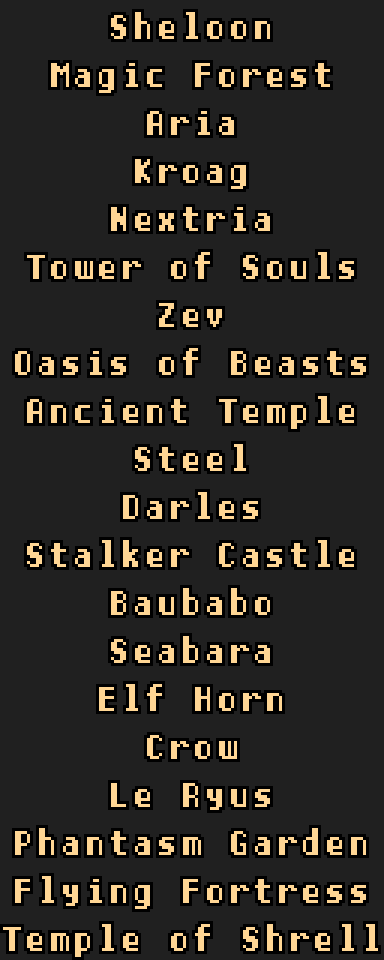
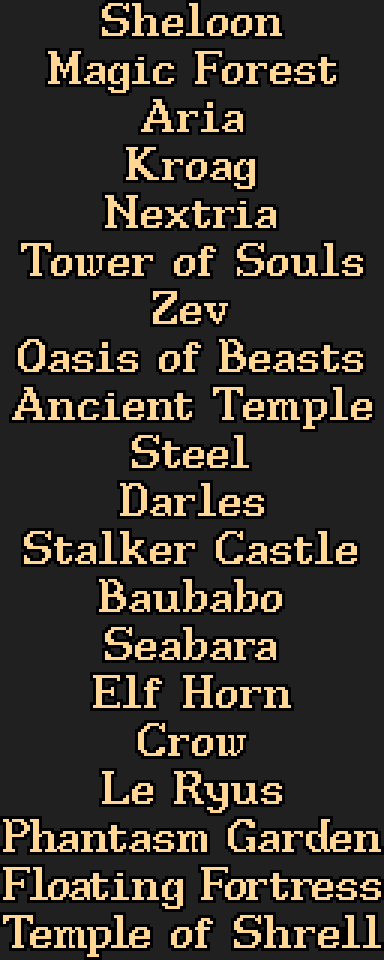
Hand-drawn English nameplates
Replaces the machine-drawn Latin pass with the twenty hand-drawn plates. The
delivered PNGs carried an editor-optimised palette - three colours renumbered
to 0/1/2, and not the same way in every file: 17-19 had the field and outline
swapped against the other seventeen. The build reads pixel values as palette
indices, so these are re-indexed onto 2/8/9 by matching RGB. Remapping by index
would have inverted the last three plates into black on black, which nothing
downstream could have caught.

18 is Floating Fortress again. The seventeen-character limit belonged to
plates.py draw, which sets type on a fixed half-width grid; the drawn art is
not on that grid and the name fits.

Space is now the thing to watch. The two blocks come to 6,326 bytes of the
6,364 available - outlines and proportional spacing break up the runs the LZSS
depends on, so this set packs larger than either the Japanese art (6,314) or
the drawn Latin one (3,479). Verified by decompressing both blocks back out of
the built ROM and comparing against all twenty sources, pixel for pixel.

README and docs/assets.md updated to match; plates.py referenced a
build/plates_patch.py that has not existed since the build was consolidated.

Changed region(s): [[0.0, 0.0, 1.0, 1.0]]

diff --git a/tools/plates.py b/tools/plates.py
@@ -37,7 +37,7 @@ where the table-pointed blocks begin.
     python3 tools/plates.py draw out/       draw English plates from the names
                                             in assets/plates/, to edit by hand
 
-`build/plates_patch.py` compiles whatever is in `assets/plates/` back into the
+`build/build.py` compiles whatever is in `assets/plates/` back into the
 ROM on every build, so a plate is changed by editing its PNG and rebuilding.
 Keep the size at 128x16 and use only the three colours the art uses:
 

diff --git a/docs/assets.md b/docs/assets.md
@@ -47,24 +47,40 @@ character *n* × 8.
     python3 tools/plates.py draw out/      a Latin first pass, from the filenames
 
 `build/build.py` compiles `assets/plates/*.png` back into the ROM on every build,
-so a plate is changed by editing its PNG and rebuilding. The files there are
-still the Japanese art, which makes the step a verified no-op: the round trip
-reproduces every character of both blocks exactly.
+so a plate is changed by editing its PNG and rebuilding. All twenty are English
+now, hand drawn. The round trip still verifies: decompressing both blocks out of
+the built ROM reproduces every source PNG pixel for pixel.
 
 Keep a plate 128×16 and paletted, and use only the three indices the art uses —
 `2` body, `8` outline, `9` field. Anything else is rejected by name rather than
 written as a wrong colour.
 
-**Space.** Blocks 0 and 1 are written end to end from `$0B3D68` and must not
-reach `$0B5644`, where the first table-pointed block starts — 6,364 bytes. The
-Japanese art repacks to 6,314. Latin letters compress far better: the drawn
-English set comes to 3,479, leaving about 2,900 spare. Block 1's address is
-patched to wherever block 0 ends, so the two do not have to keep their original
-sizes.
+**Watch the palette on anything an image editor has touched.** The build reads
+pixel values as palette *indices* and never looks at the RGB, so a file that
+looks correct on screen can still be wrong. Editors that optimise the palette
+renumber the three colours to `0`, `1`, `2` — and not consistently between
+files: the delivered English set had `0` as the field in seventeen plates and as
+the outline in the other three. Remapping such a file by index rather than by
+colour inverts it into black letters on a black field, which the build cannot
+catch because the result is a legal plate. Re-index by matching RGB.
 
-**Width.** Sixteen half-width letters fit across a plate, two to a 16×16 cell.
-Nineteen of the twenty names fit. `Floating Fortress` is seventeen and does not;
-`Flying Fortress` (15) or `Sky Fortress` (12) would.
+**Space.** Blocks 0 and 1 are written end to end from `$0B3D68` and must not
+reach `$0B5644`, where the first table-pointed block starts — 6,364 bytes. Block
+1's address is patched to wherever block 0 ends, so the two do not have to keep
+their original sizes.
+
+The margin is thin. The Japanese art repacked to 6,314; the machine-drawn Latin
+pass, being flat glyphs on a flat field, came to 3,479; the hand-drawn English
+plates in the tree now come to **6,326, leaving 38 bytes**. Outlines and
+proportional spacing cost most of that — they break up the long runs the LZSS
+lives on. A redraw that adds detail can overrun, and the build says so and stops.
+If it does, both block addresses are immediates (`LDX` at `$91:8349` and
+`$91:8354`), so moving them is three bytes each.
+
+**Width.** The old limit of sixteen half-width letters, two to a 16×16 cell,
+applies to `plates.py draw`, which sets type on that grid. Hand-drawn art is not
+on the grid: `Floating Fortress` is seventeen characters and fits comfortably,
+which is why the plate is no longer called `Flying Fortress`.
 
 ## Monster names
 

diff --git a/README.md b/README.md
@@ -17,7 +17,7 @@ Super Famicom, ASCII / System Sacom, 1993.
 | Block B — story script | **Translated, all 412 strings** |
 | Block D — Rinkle's area hints | Translated, 51 strings |
 | Block E — status screen layout | Tokens only, nothing to translate |
-| World map nameplates | PNGs compile back into the ROM; art still Japanese |
+| World map nameplates | **English** — all twenty redrawn, compiled from PNGs |
 | Monster names | **English** — Latin font, 12-character names, renderer patched |
 
 Blocks B and D are repacked against their pointer tables at build time, so their
@@ -60,9 +60,9 @@ double-applied patch fails loudly instead of producing something subtly broken.
 Not script, and not in any block: the world map nameplates and the battle monster
 names. The names are English now and are authored on the `Monster names` sheet.
 The nameplates are art — `assets/plates/NN_Name.png`, one file per plate, compiled
-into the ROM on every build, so changing one means editing the PNG. They are
-still the Japanese art; `python3 tools/plates.py draw out/` writes a Latin first
-pass to copy in. See `docs/assets.md`.
+into the ROM on every build, so changing one means editing the PNG. All twenty
+are drawn in English, and the two blocks they pack into have only about forty
+bytes to spare, so a redraw that adds detail can overrun. See `docs/assets.md`.
 
 `data/Wondrous_Magic_script.ods` **is** the script — the only place English is
 authored. There are no `script_*.py` tables any more; `build/sheet.py` reads the
@@ -82,5 +82,6 @@ format and the half-width scheme. Then:
 | `docs/screens.md` | title screen and name entry |
 | `docs/assets.md` | the nameplates and monster names — graphics, not script |
 
-If you are picking up the remaining work, it is redrawing the twenty nameplates.
-The pipeline is done; the art is not. See `docs/assets.md`.
+Every asset and every block is English now. What is left is playing it: the
+build has never been checked past the point where each piece was verified on its
+own.
